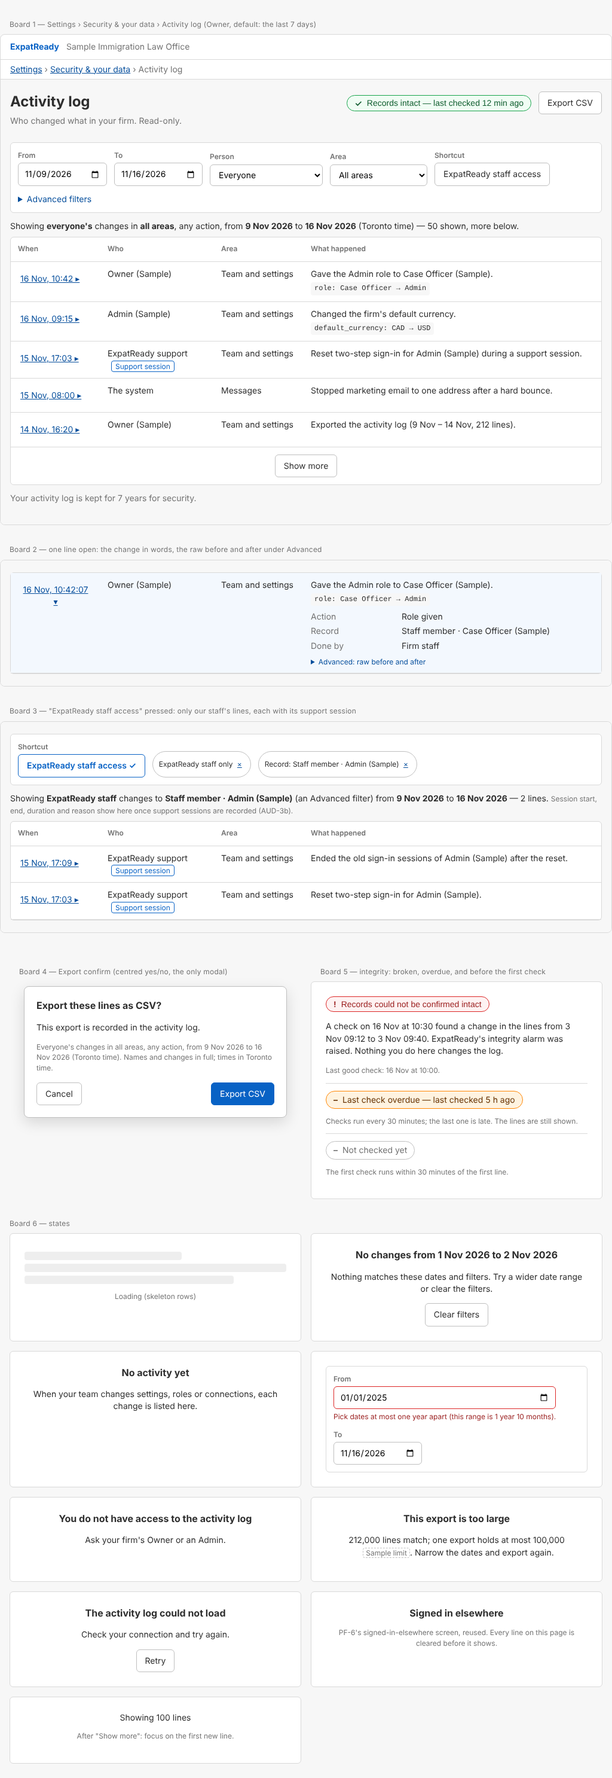
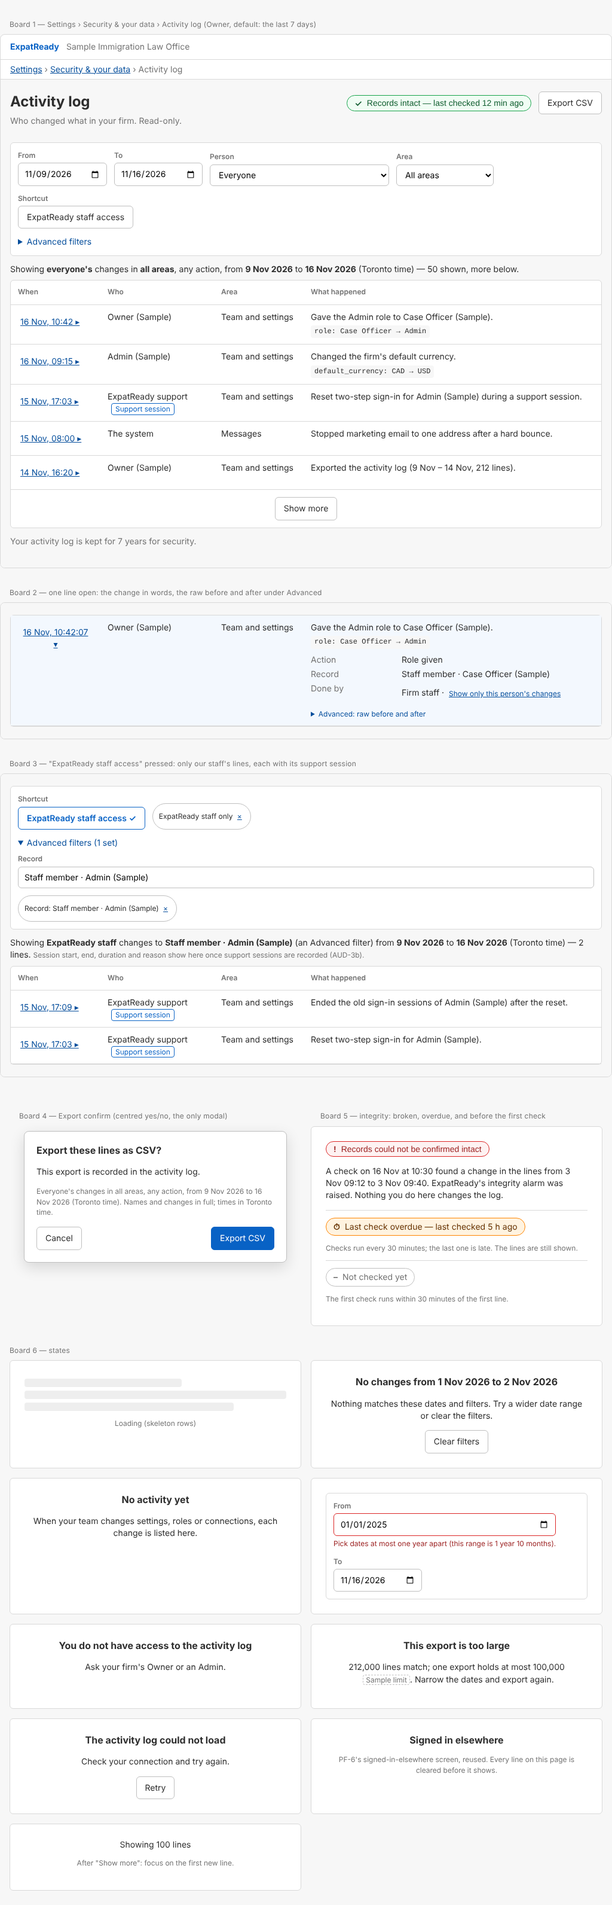
screens: AUD-4s part 1 — review round 1 fixes: the departed person and 'Show only this person's changes' on the board, a replayable 8-step walk with its seed, Minors (records)
Claude-Session: https://claude.ai/code/session_018BSQJs7M12DyfPRDUD5LWZ

diff --git a/ai-workers/problem-1-pathway-setup-and-form-filling/product/screens/AUD-4s/design/draft-1.html b/ai-workers/problem-1-pathway-setup-and-form-filling/product/screens/AUD-4s/design/draft-1.html
@@ -38,6 +38,8 @@ a{color:var(--link)}
 .integrity.bad::before{content:"!";font-weight:700}
 .integrity.unknown{border-color:var(--border-strong);color:var(--muted)}
 .integrity.unknown::before{content:"–";font-weight:700}
+.integrity.overdue{border-color:var(--warn);background:var(--warn-bg);color:var(--warn-t)}
+.integrity.overdue::before{content:"⏱";font-weight:700}
 .filters{display:flex;flex-wrap:wrap;gap:12px;align-items:flex-end;background:var(--raised);border:1px solid var(--border);border-radius:6px;padding:12px;margin-bottom:12px}
 .field{display:flex;flex-direction:column;gap:4px}
 .field label{font-size:12px;color:var(--muted);font-weight:600}
@@ -91,7 +93,7 @@ tr.open td{background:#f3f8fe}
     <form class="filters" aria-label="Filter the activity log">
       <div class="field"><label for="from">From</label><input id="from" type="date" value="2026-11-09"></div>
       <div class="field"><label for="to">To</label><input id="to" type="date" value="2026-11-16"></div>
-      <div class="field"><label for="who">Person</label><select id="who"><option>Everyone</option><option>Owner (Sample)</option><option>Admin (Sample)</option><option>Case Officer (Sample)</option></select></div>
+      <div class="field"><label for="who">Person</label><select id="who"><option>Everyone</option><option>Owner (Sample)</option><option>Admin (Sample)</option><option>Case Officer (Sample)</option><option>Case Officer B (Sample) — left the firm</option></select></div>
       <div class="field"><label for="area">Area</label><select id="area"><option>All areas</option><option>Team and settings</option><option>Front office</option><option>Money</option><option>Messages</option><option>Cases</option></select></div>
       <div class="field"><span class="small muted" style="font-weight:600">Shortcut</span><button class="btn" type="button" aria-pressed="false">ExpatReady staff access</button></div>
       <details class="adv"><summary>Advanced filters</summary>
@@ -129,7 +131,7 @@ tr.open td{background:#f3f8fe}
   <div class="tablewrap"><table><colgroup><col style="width:150px"><col style="width:190px"><col style="width:150px"><col></colgroup>
     <tbody><tr class="open"><td><button class="btn link" type="button" aria-expanded="true" aria-label="16 Nov, 10:42:07, hide details">16 Nov, 10:42:07 ▾</button></td><td>Owner (Sample)</td><td>Team and settings</td><td>
       Gave the Admin role to Case Officer (Sample).<br><span class="change">role: Case Officer → Admin</span>
-      <dl style="display:grid;grid-template-columns:140px 1fr;gap:4px 12px;margin:8px 0 0"><dt class="muted">Action</dt><dd style="margin:0">Role given</dd><dt class="muted">Record</dt><dd style="margin:0">Staff member · Case Officer (Sample)</dd><dt class="muted">Done by</dt><dd style="margin:0">Firm staff</dd></dl>
+      <dl style="display:grid;grid-template-columns:140px 1fr;gap:4px 12px;margin:8px 0 0"><dt class="muted">Action</dt><dd style="margin:0">Role given</dd><dt class="muted">Record</dt><dd style="margin:0">Staff member · Case Officer (Sample)</dd><dt class="muted">Done by</dt><dd style="margin:0">Firm staff · <button class="btn link small" type="button">Show only this person's changes</button></dd></dl>
       <details><summary class="small" style="color:var(--link);cursor:pointer;margin-top:8px">Advanced: raw before and after</summary>
         <div class="raw">action: staff.role.granted
 entity: platform_staff_role
@@ -139,8 +141,8 @@ detail: { "role_from": "CASE_OFFICER", "role_to": "ADMIN" }</div></details>
 
 <p class="board-title">Board 3 — "ExpatReady staff access" pressed: only our staff's lines, each with its support session</p>
 <div class="frame"><div class="page">
-  <div class="filters"><div class="field"><span class="small muted" style="font-weight:600">Shortcut</span><button class="btn" type="button" aria-pressed="true">ExpatReady staff access ✓</button></div><span class="chip">ExpatReady staff only <button class="btn link small" type="button" aria-label="Remove the ExpatReady staff only filter">×</button></span><span class="chip">Record: Staff member · Admin (Sample) <button class="btn link small" type="button" aria-label="Remove the record filter">×</button></span></div>
-  <p class="reads">Showing <strong>ExpatReady staff</strong> changes to <strong>Staff member · Admin (Sample)</strong> (an Advanced filter) from <strong>9 Nov 2026</strong> to <strong>16 Nov 2026</strong> — 2 lines. <span class="small muted">Session start, end, duration and reason show here once support sessions are recorded (AUD-3b).</span></p>
+  <div class="filters"><div class="field"><span class="small muted" style="font-weight:600">Shortcut</span><button class="btn" type="button" aria-pressed="true">ExpatReady staff access ✓</button></div><span class="chip">ExpatReady staff only <button class="btn link small" type="button" aria-label="Remove the ExpatReady staff only filter">×</button></span><details class="adv" open><summary>Advanced filters (1 set)</summary><div class="field" style="margin-top:8px"><label for="key3">Record</label><input id="key3" value="Staff member · Admin (Sample)"></div></details><span class="chip">Record: Staff member · Admin (Sample) <button class="btn link small" type="button" aria-label="Remove the record filter">×</button></span></div>
+  <p class="reads">Showing <strong>ExpatReady staff</strong> changes to <strong>Staff member · Admin (Sample)</strong> (an Advanced filter) from <strong>9 Nov 2026</strong> to <strong>16 Nov 2026</strong> (Toronto time) — 2 lines. <span class="small muted">Session start, end, duration and reason show here once support sessions are recorded (AUD-3b).</span></p>
   <div class="tablewrap"><table><colgroup><col style="width:150px"><col style="width:190px"><col style="width:150px"><col></colgroup>
     <thead><tr><th>When</th><th>Who</th><th>Area</th><th>What happened</th></tr></thead>
     <tbody>
@@ -164,9 +166,8 @@ detail: { "role_from": "CASE_OFFICER", "role_to": "ADMIN" }</div></details>
     <div class="state" style="text-align:left">
       <button class="integrity bad" type="button" aria-expanded="true">Records could not be confirmed intact</button>
       <p>A check on 16 Nov at 10:30 found a change in the lines from 3 Nov 09:12 to 3 Nov 09:40. ExpatReady's integrity alarm was raised. Nothing you do here changes the log.</p>
-      <p class="small muted">Last good check: 16 Nov at 10:00.</p>
-      <hr style="border:0;border-top:1px solid var(--border);margin:12px 0">
-      <span class="integrity unknown" style="border-color:var(--warn);background:var(--warn-bg);color:var(--warn-t)">Last check overdue — last checked 5 h ago</span>
+            <hr style="border:0;border-top:1px solid var(--border);margin:12px 0">
+      <span class="integrity overdue">Last check overdue — last checked 5 h ago</span>
       <p class="small muted">Checks run every 30 minutes; the last one is late. The lines are still shown.</p>
       <hr style="border:0;border-top:1px solid var(--border);margin:12px 0">
       <span class="integrity unknown">Not checked yet</span>

diff --git a/ai-workers/problem-1-pathway-setup-and-form-filling/product/screens/AUD-4s/concept-draft.md b/ai-workers/problem-1-pathway-setup-and-form-filling/product/screens/AUD-4s/concept-draft.md
@@ -19,17 +19,17 @@ Drafter: night-queue builder lane, 16 Nov 2026 (draft, not approved). No board (
 * **BR-1 firm-wide, own firm only.** Every line of the session's firm, never another firm's, never a `platform` line (AG-16-26, SA-6-33; AUD-4 DW2, DW3). Pass: Owner sees Admin's lines. Fail: firm B's line ids in the address show nothing of B.
 * **BR-2 read-only.** No edit, delete or hide control anywhere (AG-16 §3.6 "read-only"; SA-11-14 "nothing in the product deletes an audit entry").
 * **BR-3 date range required, at most one year, default the last 7 days** (Sample limit, AUD-4). Stopped in the form with the limit named; the API's 400 shown if forced.
-* **BR-4 "ExpatReady staff access"** shows only our staff's lines (actor type ExpatReady staff, or inside a support session) (SA-11-34's shortcut, applied to the firm's page; SA-2-29). Pressing it clears Advanced › Done by (they would contradict). **SA-2-29 is met in part:** the session's start, end, duration and reason show once AUD-3b writes them; until then the shortcut lists our staff's own lines (contract gap).
+* **BR-4 "ExpatReady staff access"** shows only our staff's lines (actor type ExpatReady staff, or inside a support session) (SA-11-34's shortcut, applied to the firm's page; SA-2-29). Pressing it clears Advanced › Done by (they would contradict); with a Person also set, the sentence names both and the empty state says "No ExpatReady staff changes by <person>". **SA-2-29 is met in part:** the session's start, end, duration and reason show once AUD-3b writes them; until then the shortcut lists our staff's own lines (contract gap).
 * **BR-5 the change in words** as "field: old → new", the raw before and after under Advanced (SA-11-30). A line with no pair shows its summary only; an action no module named shows its code under Advanced (AUD-4 DW7), never a blank.
 * **BR-6 export is logged and confirmed.** Confirm "This export is recorded in the activity log" once per export; the file has the filtered lines, personal data in full (AG-13-43: "no masked or unmasked variant"); the new line appears at the top afterwards. Over 100,000 lines → "Narrow the dates" (Sample limit, AUD-4).
-* **BR-7 integrity shown plainly.** "Records intact — last checked N min ago"; red with plain words and the affected range on a failure; "Not checked yet" before the first check; **orange "Last check overdue — last checked <t> ago" when over 60 minutes have passed** (two missed 30-minute runs, Sample; EXPERIENCE §2.11); detail on click (SA-11-34). The firm's own chain only (AUD-1c DW7); the detail says which areas the check covers (demo case lines chain under `sample:`, AUD-1c).
+* **BR-7 integrity shown plainly.** "Records intact — last checked N min ago"; red with plain words and the affected range on a failure; "Not checked yet" before the first check; **orange "Last check overdue — last checked <t> ago" + "Checks run every 30 minutes; the last one is late. The lines are still shown." · not checked: "The first check runs within 30 minutes of the first line." when over 60 minutes have passed** (two missed 30-minute runs, Sample; EXPERIENCE §2.11); detail on click (SA-11-34). The firm's own chain only (AUD-1c DW7); the detail says which areas the check covers (demo case lines chain under `sample:`, AUD-1c).
 * **BR-8 keep period stated:** "Your activity log is kept for 7 years for security." (SA-11-14, AG-16-66), from AUD-5's read when on `main`, else written once with its source.
 * **BR-9 people keep their names.** A deactivated person's lines keep their name (SA-11-14); our staff show "ExpatReady support" (in a session: the session's name; AUD-4's gap); jobs show "The system".
 * **BR-10 no skip, no repeat.** "Show more" by the cursor; equal times never repeat a line (AG-13-31; AUD-4 DW5). No page numbers.
 * **BR-11 times in the firm's time zone** (`platform.time_zone`), named once in the read-back sentence and in the CSV's time column header.
 * **BR-12 every filter is visible.** The read-back sentence names every active filter, Advanced included, and each has a removable chip; Advanced opens by itself when one of its filters is set (also from the address); the export confirm repeats the sentence (the file holds exactly those lines).
 * **BR-13 the page holds only the signed-in person's firm.** Every read and the page state are keyed by the session's firm and staff id from PF-6's `/me`; on session end (401 or sign-out) lines, cursor and open rows are cleared before the sign-in card shows, so a different firm signing in the same tab never sees them.
-* **BR-14 people who left can still be picked.** The Person list is the people who acted in the range, deactivated included (asked of AUD-4, see §6); each line's Who also offers "Show only this person's changes".
+* **BR-14 people who left can still be picked.** The Person list is the people who acted in the range, deactivated included and marked "left the firm" (asked of AUD-4, see §6); each open line also offers "Show only this person's changes".
 
 ## 4. Layout (`design/draft-1.html`, boards 1-6)
 Pattern: **Library list** (`EXPERIENCE.md` §3) without a side panel. **Where we chose differently (recorded, P-48):** a line opens in place, because a line has four facts and a raw block, and a drawer would hide the list a person is scanning. Four primary filters plus the shortcut exceed `FilterLayout`'s two, because the date range is required and person and area are the two stories' own questions; the rest sit under Advanced. Page card in PF-6's frame; trail Settings › Security & your data › Activity log; title, one muted subtitle; on the right the integrity pill and Export CSV (the only action). Filters: From, To, Person, Area, the "ExpatReady staff access" toggle; Advanced: action, record type, record reference, done by. Under the filters, **one sentence that reads the filters back** ("Showing everyone's changes in all areas from 9 Nov to 16 Nov 2026 (Toronto time)") so a filter that hides lines is never silent. Table: When · Who · Area · What happened (summary, then the change chip), 44 px rows. **The When cell is the line's disclosure button** ("Details" sits there, never after a long summary), so focus is never on a hidden control; long text is one line with the full text in the open row. "Show more" under the table; after it, focus moves to the first new line and a `role=status` says "Showing 100 lines". The export confirm returns focus to "Export CSV"; Export is disabled until the file arrives (no second file, no second line); the file is fetched with the session token and saved (the routes take a bearer token). The keep sentence is under the table. Filter state in the URL (team rule). At 1024 px the four columns fit with no sideways scroll; Advanced wraps below.
@@ -37,7 +37,7 @@ Pattern: **Library list** (`EXPERIENCE.md` §3) without a side panel. **Where we
 **States (board 6):** loading (skeleton + `role=status`); nothing in range (names the dates, "Clear filters"); no lines yet (first-use wording); range over one year (on the field); no access (403: "You do not have access to the activity log", who to ask); export too large; load error with Retry; session ended elsewhere (PF-6's `signed-in-elsewhere.tsx`, reused); integrity broken, overdue, not checked yet.
 
 ## 4b. Best in class (P-392)
-Read 16 Nov 2026. Only GitHub's page was read verbatim. From this cloud copy the other vendors' help hosts did not load (proxy 403), so their lines are **Unverified** (from search summaries) and must be re-read on the Mac before the label (P-392).
+Read 16 Nov 2026. Only GitHub's page was read verbatim. From this cloud copy the other vendors' help hosts did not load (proxy 403), so their lines are **Unverified** (from search summaries) and must be re-read on the Mac before part 2's label (P-392).
 | Product (source) | Does best | This page copies or beats |
 |---|---|---|
 | **GitHub organization audit log** (docs.github.com …/reviewing-the-audit-log-for-your-organization, from the `github/docs` source on `main`, read 16 Nov 2026; quotes verbatim) | One filter set (actor, action, verb class, date range) that **also drives the export**: "search by one or more of these supported qualifiers before using the Export dropdown". It states its limit: "events … within the last 180 days". Its weak points: "you cannot search for entries using text", actions are machine names (`team.create`), and there are no before → after values. | **Copies:** the export follows the filters; the keep period is stated in one line; owners only. **Beats:** plain filters read back as a sentence instead of typed qualifiers; plain action words, with the code only under Advanced; "field: old → new" on every line that has a pair; 7 years instead of 180 days. |
@@ -57,7 +57,7 @@ Firm-settings screen, not a case screen: `EXPERIENCE.md` §6 (BIC-01–20) is fo
 ## 5. Copy
 * Title "Activity log"; subtitle "Who changed what in your firm. Read-only."
 * Shortcut button "ExpatReady staff access"; tooltip: "Show only changes made by ExpatReady staff, including support sessions."
-* Integrity: "Records intact — last checked 12 min ago" · "Records could not be confirmed intact" + "A check on <date> found a change in the lines from <from> to <to>. ExpatReady's integrity alarm was raised. Nothing you do here changes the log." (wording Unconfirmed: no counsel; it promises no investigation or notice) · "Last check overdue — last checked <t> ago" · "Not checked yet" + "The first check runs within 30 minutes of the first line."
+* Integrity: "Records intact — last checked 12 min ago" · "Records could not be confirmed intact" + "A check on <date> found a change in the lines from <from> to <to>. ExpatReady's integrity alarm was raised. Nothing you do here changes the log." (wording Unconfirmed: no counsel; it promises no investigation or notice) · "Last check overdue — last checked <t> ago" + "Checks run every 30 minutes; the last one is late. The lines are still shown." · not checked: "The first check runs within 30 minutes of the first line." · "Not checked yet" + "The first check runs within 30 minutes of the first line."
 * Range error: "Pick dates at most one year apart (this range is <n>)."
 * Empty: "No changes from <from> to <to>" + "Nothing matches these dates and filters. Try a wider date range or clear the filters." First use: "No activity yet" + "When your team changes settings, roles or connections, each change is listed here."
 * No access: "You do not have access to the activity log" + "Ask your firm's Owner or an Admin." · Person action: "Show only this person's changes" · after Show more: "Showing <n> lines".
@@ -69,26 +69,28 @@ Firm-settings screen, not a case screen: `EXPERIENCE.md` §6 (BIC-01–20) is fo
 * **Export** `GET /api/platform/audit/export?<same filters>` → CSV; 413 "Narrow the dates"; the line is committed before the data (P-607 (3)). Row count for the confirm: the page shows "<n> lines" only if AUD-4 offers a count; otherwise "Export these lines as CSV?" (question 1).
 * **Integrity** `GET /api/platform/audit/integrity` → `{ state: INTACT|BROKEN|NOT_CHECKED, lastCheckedAt, range? }` (AUD-1c part 2). **Ask of AUD-1c part 2:** `NOT_CHECKED` when no check row exists, and the failing range's times; otherwise the page shows "lines N to M". Overdue is computed by the page from `lastCheckedAt`.
 * **Acceptance walk** (replayable steps for `tests/check_aud4s_activity_log_browser.ts`, keyboard only, axe-core clean, 1024 and 1440 with no sideways scroll):
+  Seed (through the port): firm A with 151 lines in the last 7 days, among them one by the Owner with a 600-character summary and a "role: Case Officer → Admin" pair, two by `OUR_STAFF`, and five by a Case Officer deactivated yesterday.
   1. Sign in as the Owner of firm A; Tab to Settings › Security & your data › Activity log; Enter.
-  2. See the heading "Activity log", the From and To fields at today − 7 days and today, and the sentence reading the filters back.
-  3. Tab to "ExpatReady staff access"; Space; the list shows only "ExpatReady support" lines (written through the port with an `OUR_STAFF` context) and no firm staff line; aria-pressed is true; the sentence names the shortcut.
-  4. Tab to a line's When button (a line with a 600-character summary); it is visible when focused; Enter; see "field: old → new"; open "Advanced: raw before and after"; see the raw detail.
-  5. Tab to "Export CSV"; Enter; the confirm shows "This export is recorded in the activity log"; Escape → nothing downloads, no new line; again, Enter on "Export CSV" → one file; the list's top line is now "Exported the activity log".
-  6. Set From to 2 years ago → the field error names the limit; the list is unchanged.
-  7. Clear the range to 30 days (over 50 lines); "Show more" twice → focus on the first new line each time; the status says "Showing 100 lines", then "Showing 150 lines".
+  2. See the heading "Activity log", From = today − 7 days, To = today, and the sentence reading the filters back with the time zone.
+  3. Tab to "ExpatReady staff access"; Space → only the two "ExpatReady support" lines, no firm staff line; aria-pressed is true; the sentence names the shortcut. Space again → the shortcut is off, aria-pressed false, all lines back.
+  4. Tab to the When button of the Owner's 600-character line; it is visible when focused; Enter → "role: Case Officer → Admin"; open "Advanced: raw before and after" → the raw detail.
+  5. On that open line, Tab to "Show only this person's changes" for the deactivated Case Officer's line (or pick them in Person: they are listed, marked "left the firm") → the five lines; clear the Person filter.
+  6. Tab to the page's "Export CSV" (top right); Enter → the confirm shows "This export is recorded in the activity log"; Escape → focus is back on "Export CSV", nothing downloads, no new line. Enter again, then Enter on the confirm's "Export CSV" → one file; the list's top line is now the Owner's "Exported the activity log".
+  7. Set From to 2 years ago → the field error names the limit; the list is unchanged. Set From back to today − 7 days.
+  8. Tab to "Show more"; Enter → focus on line 51, status "Showing 100 lines"; Enter on "Show more" again → focus on line 101, status "Showing 150 lines".
 * **Named cases** (each a pass and a fail; part 2): W1 (the walk above), DW1 (Case Officer: no menu item; the address shows the no-access page, never blank), DW2 (empty range names dates; over a year stopped, the API's 400 shown if forced), DW3 (export: one confirm, one file, one new line; cancel → nothing), DW4 (integrity green, red after a forced break, "Not checked yet" before a check), DW5 ("Show more" over 120 lines with equal times: each line once), **DW1b** (firm A signed in, session ended, firm B signs in the same tab: no firm A text in the DOM before B's first answer), **DW4b** (`lastCheckedAt` set back 2 h: orange overdue, not green), **DW3b** (Export pressed twice fast: one file, one line), **DW6** (an Advanced filter set from the address opens Advanced and is named in the sentence and as a chip).
 
 ## 6b. Capability or scaffolding
 Every element is capability (the firm's own data, the real routes); no demo chrome, no simulated-person switch (brief). Part 2 waits on AUD-4, AUD-1c part 2, PF-6 part 1.
 
 ## 7. Questions (one for the founder, three for Build Lead C)
-1. **Raw before and after: personal data in full (AG-13-43) or references only (SA-11-6 in Doc 2, `01-techno-functional/04-Doc-2-SuperAdmin-Console.md:4993`)?** Two requirement texts disagree (AGENTS rule 2: the founder settles it). Recommendation: AG-13-43, in full, to holders of `agent/audit:read` (the newer functional text, after AG7-D10). If references only, Advanced shows field names and the change chip shows no values. *This is the founder question; the others are Build Lead C's.*
+1. **Raw before and after: personal data in full (AG-13-43) or references only (SA-11-6 in Doc 2, `01-techno-functional/04-Doc-2-SuperAdmin-Console.md:4993`)?** Two requirement texts disagree (AGENTS rule 2: the founder settles it). Recommendation: AG-13-43, in full, to anyone holding the audit-log and export permissions (its words) (the newer functional text, after AG7-D10). If references only, Advanced shows field names and the change chip shows no values. *This is the founder question; the others are Build Lead C's.*
 2. **Where support sessions are listed.** Recommendation: here, through "ExpatReady staff access" (each change now; session start, end, duration and reason once AUD-3b writes them; SA-2-29 met in part), until AUD-3b's session screen exists.
 3. **Time zone shown.** Recommendation: the firm's time zone named once in the read-back sentence, not on each row.
 4. **Export count in the confirm.** AUD-4's routes give no count before the export. Recommendation: the confirm says "Export these lines as CSV?" (no number) unless AUD-4 adds `count`; no count route here.
 
 ## Definition of ready (part 2)
-Acceptance test `tests/check_aud4s_activity_log_browser.ts` (W1, DW1-DW5). Row text: AUD-4s as in BACKLOG with this concept. Decisions: P-223 (4) approval by Build Lead C after `challenge.md`; P-392 (§4b checked). Waits on AUD-4, AUD-1c part 2, PF-6 part 1.
+Acceptance test `tests/check_aud4s_activity_log_browser.ts` (W1, DW1-DW6, DW1b, DW3b, DW4b). Row text: AUD-4s as in BACKLOG with this concept. Decisions: P-223 (4) approval by Build Lead C after `challenge.md`; P-392 (§4b checked). Waits on AUD-4, AUD-1c part 2, PF-6 part 1.
 
 ## Challenge response (drafter, 16 Nov)
-`challenge.md`: Build after these changes, 0 Blocker, 7 Major, 5 Minor. All applied above: M1 BR-14 + the AUD-4 `actors` ask; M2 BR-13 + DW1b; M3 BR-12 + DW6; M4 walk step 3 and BR-4 (SA-2-29 in part); M5 copy §5; M6 BR-7 + DW4b; M7 §4 (When as the disclosure, focus after Show more and the confirm) + walk steps 4 and 7. m1 (count removed, disabled Export, fetch and save, CSV zone), m2 (AUD-1c ask, areas covered), m3 (question 1), m4 (board fixed, PF-6's signed-in-elsewhere reused) and m5 (recorded in §4) applied. Board `design/draft-1.html` updated to match.
+`challenge.md`: Build after these changes, 0 Blocker, 7 Major, 5 Minor. All applied above: M1 BR-14 + the AUD-4 `actors` ask; M2 BR-13 + DW1b; M3 BR-12 + DW6; M4 walk step 3 and BR-4 (SA-2-29 in part); M5 copy §5; M6 BR-7 + DW4b; M7 §4 (When as the disclosure, focus after Show more and the confirm) + walk steps 4 and 7. m1 (count removed, disabled Export, fetch and save, CSV zone), m2 (AUD-1c ask, areas covered), m3 (question 1), m4 (board fixed, PF-6's signed-in-elsewhere reused) and m5 (recorded in §4) applied. Board `design/draft-1.html` updated to match. Reviewer round 1 (`review.md`, Block: 2 Major, 8 Minor): the board now shows the departed person and "Show only this person's changes"; the walk is rewritten with its seed (8 steps); Minors applied.

diff --git a/ai-workers/problem-1-pathway-setup-and-form-filling/product/screens/AUD-4s/review.md b/ai-workers/problem-1-pathway-setup-and-form-filling/product/screens/AUD-4s/review.md
@@ -1,0 +1,96 @@
+# AUD-4s part 1 — review of the Activity log concept (records only)
+
+Reviewer: a fresh Opus context that neither drafted nor challenged this concept. 16 Nov 2026. PR #2027, branch `claude/screens-aud4s-concept`, head `cd3ea6709b14f5672e4b2c90a640d80bb23bfe5e`. Read: `concept-draft.md`, `design/draft-1.html`, both screenshots, `challenge.md`, briefs `AUD-4s.md`, `AUD-4.md`, `AUD-1c.md`, Build Lead C's `AUD-4s-1.md` (from `origin/claude/build-lead-c-647b40`), `EXPERIENCE.md`, `design/TEAM-PATTERNS.md`, `QUALITY.md`, P-392 and P-407, and the cited requirement lines in `domain/requirements-2026-11-02/`. There is no running app and no code, so the parts of `screen-review` that need a running screen are N/A (listed at the end).
+
+Verdict: Block
+
+Two Majors, both small edits to records: one challenge fix (M1) is in the draft but missing from the board, and the acceptance walk cannot pass as written. Everything else holds. Once both are fixed, a re-review of the new commit should take minutes.
+
+## Brief's Done when (Build Lead C, `AUD-4s-1.md:11`)
+| Item | State | Evidence |
+|---|---|---|
+| `challenge.md` beside the draft, every Blocker and Major fixed | **Partly** | 0 Blockers. M2–M7 are applied in both the draft and the board. M1 is applied in the draft only (Major 1 below). |
+| Best in class: at least 3 products, what is taken from each, marked honestly | Met | `concept-draft.md:39-52`: four products. GitHub is quoted verbatim with a date. Clio, 1Password and Atlassian are marked **Unverified** with the reason (proxy 403), to be re-read before part 2's label (PR body). Nothing the page copies depends on an Unverified fact: the grantable key, the 7-day default and the export cap all come from AG-16-26 and AUD-4. |
+| Acceptance walk replayable for `check_aud4s_activity_log_browser.ts` | **Not met** | `concept-draft.md:71-78` (Major 2). |
+| `brief-check.sh` passes on the PR body | Met | I ran it on the PR #2027 body from the REST API: exit 0. |
+| `concept.md` with Build Lead C's approval line | Not yet (expected) | That is the Lead's step after this review. `challenge.md:60-64` (Lead response, Agreement) is empty, as the skill expects at this point. |
+
+## Challenge items: applied, or only claimed? (draft · board)
+* **M1** Person source and people who left: draft yes (BR-14 `:32`, the `actors` ask `:68`). **Board no:** see Major 1.
+* **M2** firm switch in the same tab: BR-13 `:31`, DW1b `:79` · board `:187`. Applied.
+* **M3** every filter read back: BR-12 `:30`, DW6 `:79` · board 3 chips and sentence `:142-143`, confirm repeats the sentence `:158`. Applied (Minor 2).
+* **M4** walk without AUD-3b: BR-4 `:22`, step 3 `:74` · board 3 note `:143`. Applied.
+* **M5** integrity copy: `:60`, marked "Unconfirmed: no counsel" · board `:166`. Applied.
+* **M6** overdue in orange: BR-7 `:25`, DW4b `:79` · board `:169-170`. Applied (Minor 3).
+* **M7** keyboard: When cell as the disclosure `:35` · board `:114-118`. Focus after Show more `:35,78` · board `:188`. `aria-controls` points to a real element (`:87` → `:107`). Applied.
+* **m1** the board's confirm now reads "Export these lines as CSV?" with no count (`draft-1.html:156`); disabled Export, fetch and save, and CSV zone at `:29,35`. **m2** `:70`, `:107`. **m3** Q1 `:85`. **m4** no-access `:184`, board 3 newest first, PF-6's signed-in-elsewhere `:187`. **m5** `:35`. All applied.
+
+## Findings
+### Blocker
+None.
+
+### Major
+1. **M1 is not on the board, though the draft says "Board … updated to match" (`concept-draft.md:94`).** The Person list shows three active people and no one who has left (`draft-1.html:94`). No board shows "Show only this person's changes" (Who cells `draft-1.html:114-118`; open line `:130-136`). Until AUD-4 adds `actors`, BR-14 (`concept-draft.md:32`, `:68`) makes that line action the only way to reach a departed person's lines. So the Admin's story (AG-16 `:468`, "when a rep leaves … what they changed") cannot be walked on the board, and part 2's builder has no drawing of the control. **Fix:** in board 1 add a departed person to Person (for example "Case Officer (Sample) — left"). In board 2's open line add the "Show only this person's changes" control in the Who cell.
+2. **The acceptance walk fails if replayed literally (`concept-draft.md:74-78`).**
+   * Step 3 turns "ExpatReady staff access" on, and no later step turns it off. Step 5 then expects the top line to be "Exported the activity log", but that is the Owner's (firm staff) line, which the shortcut hides (BR-4 `:22`). The export would also hold staff lines only.
+   * Step 4's 600-character line must also pass the shortcut filter, and the walk does not say whose line it is.
+   * Step 5's "again, Enter on 'Export CSV' → one file" is unclear, because the page button and the confirm's button have the same name (`draft-1.html:88,159`).
+   * Step 6 leaves From invalid before step 7.
+   * Step 7 says "over 50 lines", but "Showing 150 lines" needs at least 150 lines in the 30 days.
+
+   **Fix:**
+   * After step 3, add "Space again; aria-pressed false; the sentence no longer names the shortcut".
+   * Name the 600-character line's author.
+   * Write step 5 as "Enter on the page's Export CSV, then Enter on the confirm's Export CSV".
+   * Seed at least 151 lines for step 7, and set a valid From/To before it.
+
+### Minor
+1. Board 3's sentence leaves out the time zone (`draft-1.html:143`), against BR-11 (`concept-draft.md:29`) and board 1 (`:106`).
+2. Board 3 has an Advanced filter set (Record, `draft-1.html:142`) but does not draw Advanced, which BR-12 says opens by itself (`concept-draft.md:30`). Draw it open, or note "Advanced open (cropped)".
+3. "Overdue" uses the `unknown` style's "–" mark (`draft-1.html:39-40,169`), the same shape as "Not checked yet" (`:172`). The text differs, so this is not colour alone, but EXPERIENCE §1 asks status "by shape and text". Give overdue its own mark.
+4. The board shows facts that the copy and the contract do not have. "Last good check: 16 Nov at 10:00." (`draft-1.html:167`) needs a field that the integrity contract lacks (`concept-draft.md:70`: `state, lastCheckedAt, range`). "Checks run every 30 minutes; the last one is late. The lines are still shown." (`:170`) is not in §5 (`concept-draft.md:60`). Add both to §5 (and the field to the AUD-1c ask), or drop them.
+5. The test list disagrees between sections. The definition of ready names W1 and DW1-DW5 (`concept-draft.md:91`). §6 adds DW1b, DW3b, DW4b and DW6 (`:79`). The PR body says DW1-DW6. Pick one list.
+6. AG-13-43 is paraphrased too narrowly. Q1 (`concept-draft.md:85`) gives full personal data "to holders of `agent/audit:read`". The text (`AG-13-…v1.19…md:482`) says "to anyone holding the existing audit-log **and export** permissions". Quote it exactly so the Lead sees that AUD-4's export route checks `agent/audit:read` alone. Not a change to this concept.
+7. BR-4 (`concept-draft.md:22`) clears only Done by when the shortcut is pressed. Person set to a firm staff member plus the shortcut still gives an empty list. The sentence names both, so the filter is not silent. State whether Person is cleared too.
+8. §4b says "before the label" (`concept-draft.md:40`). Write "before part 2's label", as the PR body does. Clio's "Beats" claim (`:44`) rests on an Unverified summary, so keep it out of the PR body and the demo (`challenge.md:42`).
+
+## Other questions the caller asked
+* **Sources:** every requirement quote I checked matches. AG-16 `:467-468`, `:632`, `:635`, `:637`; SA-11-14 (including "no legal floors"); SA-11-34; SA-2-29; SA-11-30; AG-13-43; and SA-11-6 at Doc 2 `:4993`. The conflict between SA-11-6 and AG-13-43 goes to the founder as Q1 (AGENTS rule 2).
+* **Values:** no immigration value appears. The limits are labelled Sample: one year (BR-3), 100,000 (BR-6, board `:185`), 60 minutes (BR-7). The 30-minute check interval comes from AUD-1c.
+* **Legal duty:** none is promised. "kept for 7 years for security" is SA-11-14's own product wording, and SA-11-14 says "no legal floors". The integrity copy promises no investigation and is marked Unconfirmed: no counsel. No "compliant", "tamper-proof" or "legally required" appears.
+* **Scope:** nothing is out of scope. "Show only this person's changes", the overdue state and the extra DW cases all answer the challenge or EXPERIENCE [M] rules. The asks of AUD-4 (`actors`) and AUD-1c (`NOT_CHECKED`, range times) are recorded as asks, not built here.
+* **Consistency:** the rules agree across draft, board and copy, except Major 1 and Minors 1, 2, 4 and 5.
+
+## D1–D20 (concept and board only, out of 5)
+* D1 5: every rule is cited.
+* D2 4: BR-13 covers the client side, but the walk has a data-state gap.
+* D3 5: no new route or table.
+* D4 N/A.
+* D5 4: double export and session change are covered.
+* D6 5: integrity, overdue state and the keep sentence.
+* D7 N/A: no AI.
+* D8 5: trail.
+* D9 4: the Admin story is not drawn (Major 1).
+* D10 5: plain copy, with codes only under Advanced.
+* D11 5: every state is drawn.
+* D12 5: team tokens.
+* D13 4: keyboard plan is sound; overdue shape (Minor 3).
+* D14 4: departures are recorded.
+* D15 N/A.
+* D16 4: a pass and a fail per case, but the walk is not replayable.
+* D17 and D20: simulated only.
+* D18 5: raw under Advanced, sentence read-back.
+* D19 4: SA-2-29 is met only in part until AUD-3b (recorded).
+
+## BIC-01–20
+N/A. This is a firm-settings screen, outside the P-407 §6 scope for case screens (`concept-draft.md:55`). I agree.
+
+## Journey score (journey-test, reviewer role)
+**8.8 / 10 on the paper walk.** Two of the ten criteria (correct data, speed) were N/A; the 7 points from the other eight are scaled to 10 (7 / 8). That is a pass with no criterion at 0. The full report is in `journey-test-reviewer-2026-11-16.md`.
+
+## What I could not check
+* No running screen, so I did no browser walk, axe check, timings, data check underneath or break-it pass.
+* I did not run the graph tool: no code exists for it to map.
+* GitHub's quotes were not re-read: vendor and docs hosts are unreachable from this copy, as instructed.
+* The team-code names (`audit-read.controller.ts:90,100`, `FilterLayout` and the others) stay Unverified, as the challenge says: there is no `code/` here.
+* D17 and D20 stay with the founder.

diff --git a/ai-workers/problem-1-pathway-setup-and-form-filling/product/screens/AUD-4s/journey-test-reviewer-2026-11-16.md b/ai-workers/problem-1-pathway-setup-and-form-filling/product/screens/AUD-4s/journey-test-reviewer-2026-11-16.md
@@ -1,0 +1,41 @@
+# AUD-4s part 1 — journey test (reviewer), 16 Nov 2026
+
+Scope: a **concept only** (PR #2027, head `cd3ea6709b14f5672e4b2c90a640d80bb23bfe5e`). No app is running and no code exists. The journeys below were walked on paper against `concept-draft.md` and the six boards in `design/draft-1.html` (screenshots at 1024 and 1440). Criteria that need a running screen are N/A. Steps 2 to 5 of the skill (visible browser, Playwright replay, data underneath, break-it) wait for part 2.
+
+## Journeys (from the concept and AG-16 `:467-468`)
+1. **Main: the Owner checks who changed what.** Settings › Security & your data › Activity log. Expect the last 7 days, newest first; a sentence reading the filters back; open one line to see "field: old → new", with raw data under Advanced. *Held:* boards 1 and 2 show each step.
+2. **Alternate: "Did your support people touch our data?"** Press "ExpatReady staff access". Expect only "ExpatReady support" lines, a chip, and the sentence naming the filter. *Held:* board 3. The session's start and end are deferred to AUD-3b, which the board says.
+3. **Alternate: the Admin, after a rep leaves.** Find the departed person's changes. *Did not hold:* the Person list on board 1 has only active people (`draft-1.html:94`), and no board shows "Show only this person's changes" (BR-14). See review Major 1.
+4. **Export.** Export CSV, then the confirm with "This export is recorded in the activity log", then one file and one new line. Cancelling gives nothing. *Held:* board 4 and BR-6. The page and the dialog both have a button named "Export CSV"; this is clear on screen but ambiguous in the written walk (review Major 2).
+5. **Empty.** A range with no lines names its dates and offers "Clear filters". *Held:* board 6.
+6. **Error.** A range over one year is stopped on the field with the limit named; a load error offers Retry; an export that is too large says to narrow the dates. *Held:* board 6.
+7. **Wrong role.** A Case Officer sees no menu item and a plain no-access page. *Held:* board 6 and DW1.
+8. **Recovery.** The session ends and another firm signs in in the same tab: lines are cleared first. A double click on Export gives one file. *Held on paper:* BR-13, DW1b, DW3b.
+9. **Across the boundary.** Settings index → this page, and AUD-3b's session screen later. *Held:* the trail and the contract gap are recorded.
+
+## Findings
+* **Major:** journey 3 cannot be walked on the board (`draft-1.html:94,114-118,130-136`).
+* **Major:** the written acceptance walk (`concept-draft.md:74-78`) carries the shortcut over from step 3. Step 5's export line would then be hidden, and step 7's data is too small. Details and fixes are in `review.md`.
+* **Minor:** overdue and "Not checked yet" share one mark (`draft-1.html:39-40,169,172`). Board 3's sentence leaves out the time zone (`:143`).
+
+## Score (paper walk)
+| Criterion | Score | Evidence |
+|---|---|---|
+| Task completed | ½ | Journeys 1, 2 and 4–8 hold; journey 3 (the Admin's story) is not drawn. |
+| Next step obvious | 1 | One action (Export CSV); "Show more"; "Clear filters"; Retry. |
+| Plain words | 1 | §5 copy; action codes only under Advanced; "ExpatReady support", "The system". |
+| Feedback and state | 1 | Every state in the brief is drawn, plus overdue and load error (boards 5–6). |
+| Correct data | N/A | No app or database. |
+| Error recovery | 1 | Range error on the field, Retry, "Narrow the dates", Cancel writes nothing. |
+| Accessibility and screen sizes | ½ | No sideways scroll at 1024 or 1440 (screenshots). When cell is the disclosure; focus plan written. But overdue has the same shape as "Not checked yet", and the keyboard walk is not replayable as written. |
+| Speed | N/A | Nothing to time. |
+| Visual quality | 1 | Team tokens, 44 px rows, quiet pills; matches the screenshots. |
+| Trust and sources | 1 | Integrity pill with detail and areas covered; raw before and after; no AI; claims marked Unverified or Sample. |
+
+**7 / 8 scorable = 8.8 / 10. Pass (8 or more, no 0), on paper only.** Fixes that raise the score, most valuable first:
+1. Draw the departed person and the "Show only this person's changes" control.
+2. Make the walk replayable.
+3. Give overdue its own mark.
+
+## Could not test
+A real browser walk, axe-core, keyboard replay, timings, data underneath, the break-it pass and a screen reader all wait for part 2 against AUD-4's routes. D17 and D20 stay with the founder.
